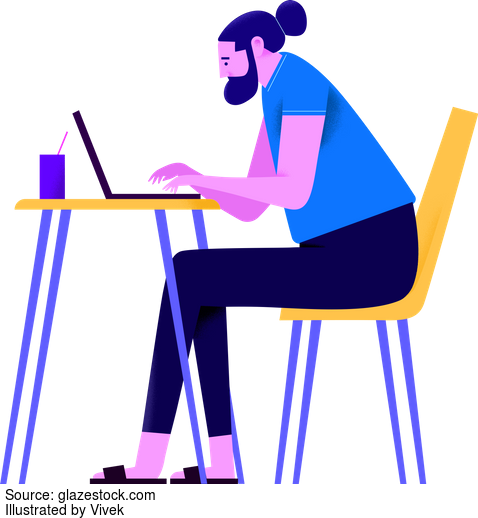
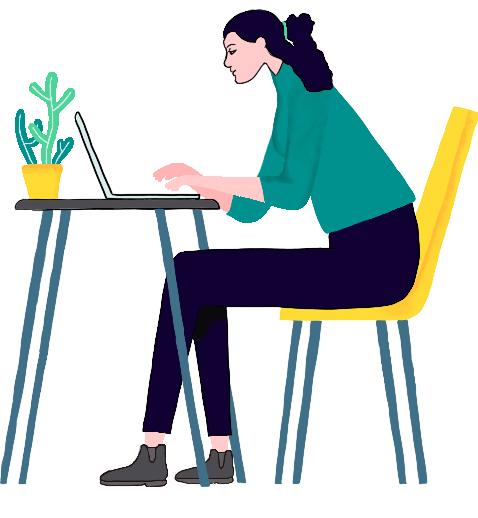
update profile image and styles

diff --git a/src/template.html b/src/template.html
@@ -27,13 +27,11 @@
   <div id="hero" class="jumbotron">
     <div class="container">
       <h1 class="hero-title" class="load-hidden">
-        Good afternoon,
+        Hi! My name is <span class="text-color-main">Tineke van Rijn</span>
         <br />
-        I am <span class="text-color-main">Tineke</span>
-        <br />
-        <span class="hero-text">Front-End Developer with a unique background in test automation.
+        <span class="hero-text"> I'm a Front-End Developer with a unique background in test automation,
           <br />
-          I am based in Utrecht, The Netherlands.</span>
+          based in Utrecht, The Netherlands.</span>
       </h1>
       <p class="hero-cta" class="load-hidden">
         <a class="cta-btn cta-btn--hero" href="#about">Learn more</a>
@@ -50,7 +48,7 @@
       </h2>
       <div class="row about-wrapper">
         <div class="col-md-6 col-sm-12">
-          <div class="about-wrapper__image">
+          <div data-tilt class="about-wrapper__image">
             <img class="img-fluid rounded shadow-lg" height="auto" width="300px" src="./assets/profile.png"
               alt="Profile Image" />
           </div>
@@ -65,7 +63,7 @@
             <p class="about-wrapper__info-text">
               With a pro-active attitude and a strong eye for detail I have proven to be a valuable asset to multiple
               teams. I'm passionate about high quality and good user experience. When I'm not coding, I'm probably
-              exploring higher grounds climbing some rock . . . or drinking coffee.
+              exploring higher grounds climbing on rock . . . or drinking coffee.
             </p>
             <span class="d-flex mt-3">
               <a target="_blank" class="cta-btn cta-btn--resume" href="https://www.linkedin.com/in/tinekevanrijn/">
@@ -125,7 +123,7 @@
             <div class="project-wrapper__image">
               <a href="#" target="_blank">
                 <div data-tilt class="thumbnail rounded">
-                  <img class="img-fluid" src="./assets/code.png" />
+                  <img class="img-fluid rounded shadow-lg" src="./assets/code.png" />
                 </div>
               </a>
             </div>
@@ -155,7 +153,7 @@
             <div class="project-wrapper__image">
               <a href="https://tvanrijn.github.io/portfolio/" target="_blank">
                 <div data-tilt class="thumbnail rounded">
-                  <img class="img-fluid" src="./assets/portfolio.png" />
+                  <img class="img-fluid rounded shadow-lg" src="./assets/portfolio.png" />
                 </div>
               </a>
             </div>
@@ -185,7 +183,7 @@
             <div class="project-wrapper__image">
               <a href="https://tvanrijn.github.io/" target="_blank">
                 <div data-tilt class="thumbnail rounded">
-                  <img class="img-fluid" src="./assets/banner.png" />
+                  <img class="img-fluid rounded shadow-lg" src="./assets/banner.png" />
                 </div>
               </a>
             </div>
@@ -215,7 +213,7 @@
             <div class="project-wrapper__image">
               <a href="https://tvanrijn.github.io/star-wars-planets/" target="_blank">
                 <div data-tilt class="thumbnail rounded">
-                  <img class="img-fluid" src="./assets/starwarsplanets.png" />
+                  <img class="img-fluid rounded shadow-lg" src="./assets/starwarsplanets.png" />
                 </div>
               </a>
             </div>
@@ -245,7 +243,7 @@
             <div class="project-wrapper__image">
               <a href="https://tvanrijn.github.io/gradient-background/" target="_blank">
                 <div data-tilt class="thumbnail rounded">
-                  <img class="img-fluid" src="./assets/gradient.png" />
+                  <img class="img-fluid rounded shadow-lg" src="./assets/gradient.png" />
                 </div>
               </a>
             </div>
@@ -266,7 +264,7 @@
       </h2>
       <div class="contact-wrapper">
         <p class="contact-wrapper__text">
-          I work for <a target="_blank" href="https://verista.nl">Verista B.V.</a> and can be contracted for frontend
+          I work for <a class="italic" target="_blank" href="https://verista.nl">Verista B.V.</a> and can be contracted for frontend
           positions.
           <br />
           Let's work together.
@@ -294,9 +292,6 @@
           <i class="fa fa-github fa-inverse"></i>
         </a>
       </div>
-
-      <hr />
-
     </div>
   </footer>
   <!-- /END Footer Section -->

diff --git a/src/style/base/_typography.scss b/src/style/base/_typography.scss
@@ -57,3 +57,13 @@ a:hover {
     transform: translateX(2px);
   }
 }
+
+.italic,
+.italic:hover {
+  color: inherit;
+  font-style: italic;
+}
+
+.italic:hover {
+  color: $dark-blue-text;
+}
